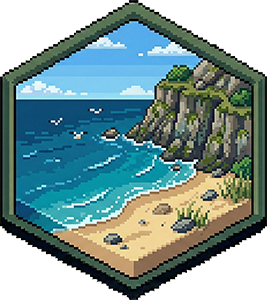
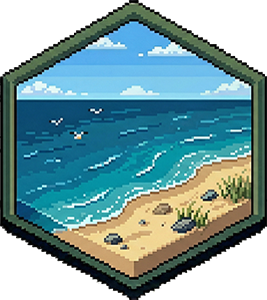
chore: update terrain assets and improve river generation
- Optimize Coast.png and Fog.png assets
- Add generate_river_placeholder.mjs utility script
- Clean up GameMap.tsx river rendering code
- Improve map-generator.ts river pathfinding
- Add turn-loop tests and improve turn-loop logic

diff --git a/engine/src/game/turn-loop.test.ts b/engine/src/game/turn-loop.test.ts
@@ -1,8 +1,8 @@
 import { describe, it, expect } from "vitest";
 import { applyAction } from "./turn-loop";
 import { generateWorld } from "../map/map-generator";
-import { Action, UnitType, UnitState, PlayerPhase, TechId, BuildingType } from "../core/types";
-import { hexNeighbor } from "../core/hex";
+import { Action, UnitType, UnitState, PlayerPhase, TechId, BuildingType, TerrainType } from "../core/types";
+import { hexNeighbor, hexEquals } from "../core/hex";
 
 describe("Turn Loop & Actions", () => {
     it("should allow moving a unit", () => {
@@ -74,6 +74,8 @@ describe("Turn Loop & Actions", () => {
             hp: 20,
             maxHp: 20,
             isCapital: true,
+            hasFiredThisTurn: false,
+            milestones: [],
         });
         // Force tile yield
         const tile = state.map.tiles.find(t => t.coord.q === 0 && t.coord.r === 0);
@@ -125,5 +127,69 @@ describe("Turn Loop & Actions", () => {
         expect(remainingUnits.length).toBe(initialUnits.length);
         expect(remainingUnits.some(u => u.type === UnitType.Settler)).toBe(true);
         expect(player?.isEliminated).toBe(false);
+    });
+
+    it("should allow 1-move units (Settler) to enter high-cost terrain (Hills)", () => {
+        const state = generateWorld({ mapSize: "Small", players: [{ id: "p1", civName: "A", color: "red" }] });
+        const settler = state.units.find(u => u.type === UnitType.Settler && u.ownerId === "p1");
+        expect(settler).toBeDefined();
+
+        const targetCoord = hexNeighbor(settler!.coord, 0);
+        const tile = state.map.tiles.find(t => hexEquals(t.coord, targetCoord));
+        if (tile) tile.terrain = TerrainType.Hills; // Cost 2
+
+        const action: Action = {
+            type: "MoveUnit",
+            playerId: "p1",
+            unitId: settler!.id,
+            to: targetCoord,
+        };
+
+        const nextState = applyAction(state, action);
+        const movedSettler = nextState.units.find(u => u.id === settler!.id);
+        expect(movedSettler!.coord).toEqual(targetCoord);
+        expect(movedSettler!.movesLeft).toBe(0); // 1 - 1 = 0
+    });
+
+    it("should apply movement penalty to >1 move units (Scout) entering high-cost terrain", () => {
+        const state = generateWorld({ mapSize: "Small", players: [{ id: "p1", civName: "A", color: "red" }] });
+        const scout = state.units.find(u => u.type === UnitType.Scout && u.ownerId === "p1");
+        expect(scout).toBeDefined();
+
+        const targetCoord = hexNeighbor(scout!.coord, 0);
+        const tile = state.map.tiles.find(t => hexEquals(t.coord, targetCoord));
+        if (tile) tile.terrain = TerrainType.Hills; // Cost 2
+
+        const action: Action = {
+            type: "MoveUnit",
+            playerId: "p1",
+            unitId: scout!.id,
+            to: targetCoord,
+        };
+
+        const nextState = applyAction(state, action);
+        const movedScout = nextState.units.find(u => u.id === scout!.id);
+        expect(movedScout!.coord).toEqual(targetCoord);
+        expect(movedScout!.movesLeft).toBe(0); // 2 - 2 = 0
+    });
+
+    it("should prevent >1 move units from entering high-cost terrain if they lack movement", () => {
+        const state = generateWorld({ mapSize: "Small", players: [{ id: "p1", civName: "A", color: "red" }] });
+        const scout = state.units.find(u => u.type === UnitType.Scout && u.ownerId === "p1");
+        expect(scout).toBeDefined();
+        scout!.movesLeft = 1; // Reduce moves to 1
+
+        const targetCoord = hexNeighbor(scout!.coord, 0);
+        const tile = state.map.tiles.find(t => hexEquals(t.coord, targetCoord));
+        if (tile) tile.terrain = TerrainType.Hills; // Cost 2
+
+        const action: Action = {
+            type: "MoveUnit",
+            playerId: "p1",
+            unitId: scout!.id,
+            to: targetCoord,
+        };
+
+        expect(() => applyAction(state, action)).toThrow("Not enough movement");
     });
 });

diff --git a/client/src/utils/map-generator.ts b/client/src/utils/map-generator.ts
@@ -544,7 +544,17 @@ export function generateWorld(settings: WorldGenSettings): GameState {
                 id: `u_${p.id}_scout`,
                 type: UnitType.Scout,
                 ownerId: p.id,
-                coord: spot.coord, // Stacked initially? Rulebook says Settler can share with 1 military.
+                coord: (() => {
+                    const neighbors = getNeighbors(spot.coord);
+                    const validNeighbors = neighbors.filter(n => {
+                        const t = getTile(n);
+                        return t && t.terrain !== TerrainType.Mountain && t.terrain !== TerrainType.DeepSea && t.terrain !== TerrainType.Coast;
+                    });
+                    if (validNeighbors.length > 0) {
+                        return rng.choice(validNeighbors);
+                    }
+                    return spot.coord;
+                })(),
                 hp: 10,
                 maxHp: 10,
                 movesLeft: 2,
@@ -559,24 +569,24 @@ export function generateWorld(settings: WorldGenSettings): GameState {
         turn: 1,
         players,
         currentPlayerId: players[0].id,
-    phase: PlayerPhase.StartOfTurn,
-    map: {
-        width,
-        height,
-        tiles,
-        rivers: riverEdges,
-        riverPolylines,
-    },
+        phase: PlayerPhase.StartOfTurn,
+        map: {
+            width,
+            height,
+            tiles,
+            rivers: riverEdges,
+            riverPolylines,
+        },
         units,
-    cities,
-    seed,
-    diplomacy: initDiplomacy(players),
-    sharedVision: initSharedVision(players),
-    contacts: initContacts(players),
-    visibility: initVisibility(players, tiles, units, cities),
-    revealed: initVisibility(players, tiles, units, cities),
-    diplomacyOffers: [],
-};
+        cities,
+        seed,
+        diplomacy: initDiplomacy(players),
+        sharedVision: initSharedVision(players),
+        contacts: initContacts(players),
+        visibility: initVisibility(players, tiles, units, cities),
+        revealed: initVisibility(players, tiles, units, cities),
+        diplomacyOffers: [],
+    };
 
     // Seed contacts if any civs can already see each other at start
     for (const p of players) {

diff --git a/engine/src/game/turn-loop.ts b/engine/src/game/turn-loop.ts
@@ -137,6 +137,12 @@ function handleMoveUnit(state: GameState, action: { type: "MoveUnit"; playerId: 
         cost = terrainData.moveCostNaval ?? 999;
     }
 
+    // Special Rule: Units with max movement 1 can always move 1 tile (if passable)
+    // effectively ignoring terrain cost > 1.
+    if (unitStats.move === 1) {
+        cost = 1;
+    }
+
     if (unit.movesLeft < cost) throw new Error("Not enough movement");
 
     // Occupancy check
@@ -570,8 +576,8 @@ function handleAcceptPeace(state: GameState, action: { type: "AcceptPeace"; play
     state.diplomacyOffers = state.diplomacyOffers.filter(o => !(o.from === b && o.to === a && o.type === "Peace"));
     if (!state.diplomacy[a]) state.diplomacy[a] = {} as any;
     if (!state.diplomacy[b]) state.diplomacy[b] = {} as any;
-        state.diplomacy[a][b] = DiplomacyState.Peace;
-        state.diplomacy[b][a] = DiplomacyState.Peace;
+    state.diplomacy[a][b] = DiplomacyState.Peace;
+    state.diplomacy[b][a] = DiplomacyState.Peace;
     return state;
 }
 
@@ -910,8 +916,8 @@ function disableSharedVision(state: GameState, a: string, b: string) {
 function ensureWar(state: GameState, a: string, b: string) {
     if (!state.diplomacy[a]) state.diplomacy[a] = {} as any;
     if (!state.diplomacy[b]) state.diplomacy[b] = {} as any;
-        state.diplomacy[a][b] = DiplomacyState.War;
-        state.diplomacy[b][a] = DiplomacyState.War;
+    state.diplomacy[a][b] = DiplomacyState.War;
+    state.diplomacy[b][a] = DiplomacyState.War;
     setContact(state, a, b);
     disableSharedVision(state, a, b);
     state.diplomacyOffers = state.diplomacyOffers.filter(o => !(o.from === a && o.to === b) && !(o.from === b && o.to === a));

diff --git a/client/src/components/GameMap.tsx b/client/src/components/GameMap.tsx
@@ -123,23 +123,9 @@ const HexTileOverlay: React.FC<HexTileOverlayProps> = React.memo(({ x, y, isVisi
                     style={{ pointerEvents: "none" }}
                 />
                 <text
-                    x={-40}
+                    x={0}
                     y={-30}
-                    textAnchor="start"
-                    fill="white"
-                    fontSize={20}
-                    style={{
-                        pointerEvents: "none",
-                        fontWeight: "bold",
-                        textShadow: "2px 2px 4px #000, -2px -2px 4px #000, 2px -2px 4px #000, -2px 2px 4px #000"
-                    }}
-                >
-                    {city.name}
-                </text>
-                <text
-                    x={40}
-                    y={-30}
-                    textAnchor="end"
+                    textAnchor="middle"
                     fill="white"
                     fontSize={24}
                     style={{
@@ -148,7 +134,7 @@ const HexTileOverlay: React.FC<HexTileOverlayProps> = React.memo(({ x, y, isVisi
                         textShadow: "2px 2px 4px #000, -2px -2px 4px #000, 2px -2px 4px #000, -2px 2px 4px #000"
                     }}
                 >
-                    {city.pop}
+                    {city.name} {city.pop}
                 </text>
             </g>,
         );
